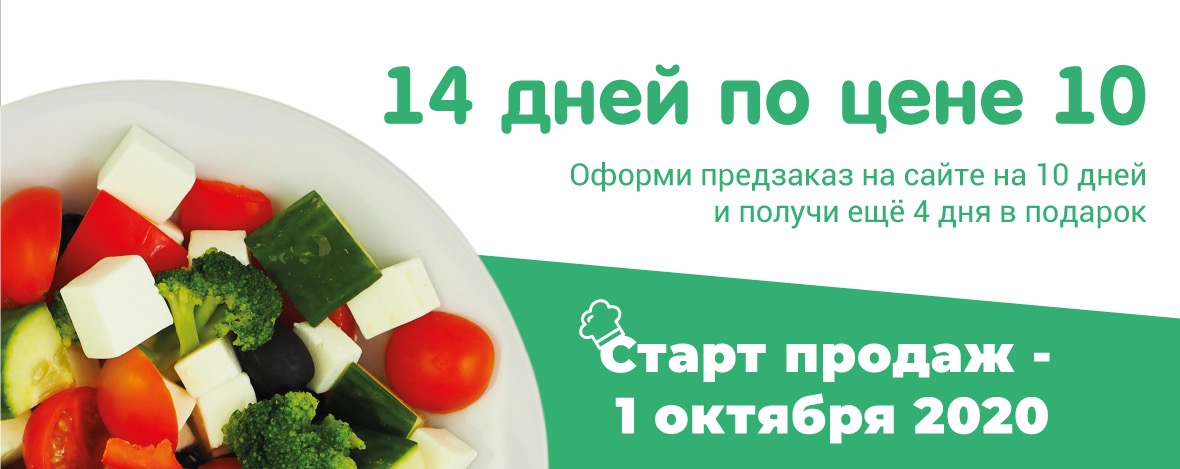
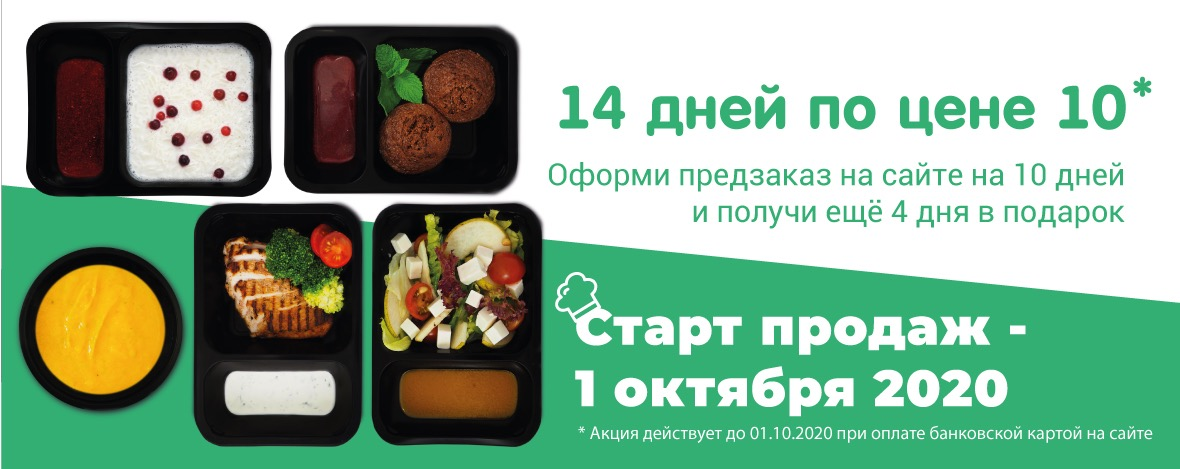
Изменения в дизайне, добавлен таймер

diff --git a/js/timer.js b/js/timer.js
@@ -1,0 +1,34 @@
+const daysEl = document.getElementById('days');
+const hoursEl = document.getElementById('hours');
+const minutesEl = document.getElementById('minutes');
+const secondsEl = document.getElementById('seconds');
+const timerEl = document.getElementById('timer');
+
+function countdown () {
+    const targetDate = new Date("01 Oct 2020");
+    const currentDate = new Date();
+    const allSeconds = Math.floor(targetDate - currentDate) / 1000;
+    const days = Math.floor(allSeconds / 3600 / 24);
+    const hours = Math.floor(allSeconds / 3600 ) % 24;
+    const minutes = Math.floor(allSeconds / 60 ) % 60;
+    const seconds = Math.floor(allSeconds) % 60;
+
+    if (allSeconds <= 0) {
+        timerEl.innerHTML="Таймер закончился!";
+        return false;
+    } 
+
+    daysEl.innerHTML = formatTime(days);
+    hoursEl.innerHTML = formatTime(hours);
+    minutesEl.innerHTML = formatTime(minutes);
+    secondsEl.innerHTML = formatTime(seconds);
+
+}
+
+function formatTime(time) {
+    return (time < 10 ? `0${time}` : time);
+}
+
+
+countdown();
+setInterval(countdown, 1000);

diff --git a/css/main.css b/css/main.css
@@ -823,12 +823,12 @@ footer {
 
 .footer-top-line .cr_cards-img {
     flex-basis: 33.33%;
-    text-align: right;
+    text-align: center;
 }
 
-.footer-top-line .cr_cards-img img {
+/* .footer-top-line .cr_cards-img img {
     max-width: 50px;
-}
+} */
 
 .footer-content__img {
     flex-basis: 20%;
@@ -906,4 +906,28 @@ footer {
 /* order */
 .result_ {
     font-size: 1.5rem;
+}
+
+/*timer*/
+.timer  {
+    list-style: none;
+    padding: 0;
+    margin: 0;
+    display: flex;
+    justify-content: center;
+    align-items: center;
+}
+
+.timer li {
+    display: flex;
+    justify-content: center;
+    align-items: center;
+    flex-direction: column;
+    padding: 1rem;
+}
+
+.big-text {
+    font-size: 4rem;
+    font-family: 'Nunito-Bold'  , sans-serif;
+    transition: linear 0.5s ease;
 }

diff --git a/css/media.css b/css/media.css
@@ -15,7 +15,7 @@
     }
     
     .main-banner {
-        min-height: 300px;
+        min-height: 200px;
     }
     /*sm header end*/
     
@@ -200,9 +200,9 @@
         margin-top: 1.8rem;
     }
     
-    .footer-top-line .cr_cards-img img {
+    /* .footer-top-line .cr_cards-img img {
         max-width: 30px;
-    }
+    } */
     /*sm footer end*/
 }
 

diff --git a/index.php b/index.php
@@ -1,6 +1,24 @@
 <?php include_once './template/header.php'; ?>
 
         <main>
+
+            <section class="banner" id="banner">
+                <div class="container bg-color-white">
+                    <div class="timer-container">
+                        <div class="timer-title text-center pt-3">
+                            <h3>До старта продаж: </h3>
+                        </div>
+                            <ul class="timer" id="timer">
+                                <li><span class="big-text" id="days">0</span><span class="small-text">дней</span></li>
+                                <li><span class="big-text" id="hours">0</span><span class="small-text">часов</span></li>
+                                <li><span class="big-text" id="minutes">0</span><span class="small-text">минут</span></li>
+                                <li><span class="big-text" id="seconds">0</span><span class="small-text">секунд</span></li>
+                            </ul>
+                    </div>
+                </div>
+            </section>
+
+
             <section class="banner" id="banner">
                 <div class="container bg-color-white">
                     <div class="banner__img d-flex align-items-center justify-content-center w-100 py-3">
@@ -11,6 +29,10 @@
                     </div>
                 </div>
             </section>
+
+            
+
+
 
             <section class="how" id="how_anchor">
                 <div class="container bg-color-white">
@@ -89,7 +111,7 @@
                         <div class="col-md-6">
                             <div class="how-descr-item">
                                 <div class="how-descr__badge"><i class="fas fa-check"></i></div>
-                                <h3>Тщательно подобранные меню</h3>
+                                <h3>Удобно использовать</h3>
                                 <span>Вы можете разогреть наши блюда в простой микроволновке
                                     буквально за несколько минут!
                                 </span>
@@ -131,7 +153,6 @@
                                             <?= $foodset['description'] ?>
                                         </div>
                                         <div class="card-link align-items-center justify-content-center d-flex w-100 p-4">
-                                            <!-- <button class="my-btn btn-green" type="button" data-sum="<?= $foodset['price'] ?>" data-order="<?= $foodset['name'] ?>" data-toggle="modal" data-target="#modal-order" disabled="disabled">заказать</button> -->
                                             <a href="/order.php?order_sum=<?= $foodset['price'] ?>&order=<?= $foodset['name'] ?>&product_code=<?= $foodset['frontpad_api_id'] ?>" style="color:#fff" class="my-btn btn-green" type="button" data-sum="<?= $foodset['price'] ?>" >заказать</a>
                                         </div>
                                     </div>
@@ -312,17 +333,23 @@
                         </div>
                         <div class="col-md-6">
                             <div class="pevsner__text">
-                                Доставка осуществляется по районам Москвы и ближайшему Подмосковью с 10:00 до 18:00 ежедневно.
+                            <p>
+                                Доставка осуществляется по районам Москвы и ближайшему Подмосковью с 8:00 до 23:00 ежедневно.
                                 Далее 10км от МКАД доставка платная.
                                 Подробности можно уточнить у менедежера.
+                            </p>
+                            <p>
+                                Для Вашего удобства оплатить заказ можно на сайте с помощью банковской карты, а 
+                                также при получении заказа наличными или банковской картой.
+                            </p>    
+                            <p>
+                                Отмена ранее заказанного рациона питания возможна не позднее 24 часов до даты доставки.            
+                            </p>
                             </div>
                         </div>
                     </div>
                 </div>
             </section>
-
-
-
 
             <section class="call" id="contacts_anchor">
                 <div class="container bg-color-white">

diff --git a/order.php b/order.php
@@ -160,12 +160,12 @@ if (isset($_GET['product_code']) && !empty($_GET['product_code'])) {
                                     Наличными при получении
                                 </label>
                             </div>
-                            <div class="form-check">
+                            <!-- <div class="form-check">
                                 <input class="form-check-input check" type="radio" name="payment_type" value="2" id="order_input_check_card" required>
                                 <label class="form-check-label" for="order_input_check_card">
                                     Оплата картой на сайте онлайн
                                 </label>
-                            </div>
+                            </div> -->
                             <div class="form-check">
                                 <input class="form-check-input check" type="radio" name="payment_type" value="3" id="order_input_check_card_2" required>
                                 <label class="form-check-label" for="order_input_check_card_2">
@@ -207,7 +207,7 @@ if (isset($_GET['product_code']) && !empty($_GET['product_code'])) {
                     data-amount-format='rubli'
                     data-client-info-selector='.order-input-name'
                     data-email-selector='.order-input-email'
-                    data-token='qmr4hi9gnv2fgold9a3bq1f7ji'
+                    data-token='pcblv1b183t2rrosou7msbs3p8'
                     data-description-selector='.form_order_order'
                     data-language='ru'
                     data-stages='1'

diff --git a/template/footer.php b/template/footer.php
@@ -7,9 +7,11 @@
                             <a href="tel:+74955858203"><span><i class="fas fa-phone"></i></span> +7 (495) 585-8203</a>
                         </div>
                         <div class="cr_cards-img">
-                            <span>Мы принимаем к оплате: </span>
-                            <img src="img/design/sections/footer/visa.png" alt="Мы принимаем Visa" class="img-fluid">
-                            <img src="img/design/sections/footer/mastercard.png" alt="Мы принимаем MasterCard" class="img-fluid">
+                            <span>Оплата банковскими картами осуществляется через АО «АЛЬФА-БАНК».К оплате принимаются карты VISA, MasterCard, МИР.</span>
+                            <!-- <img src="img/design/sections/footer/visa.png" alt="Мы принимаем Visa" class="img-fluid">
+                            <img src="img/design/sections/footer/mastercard.png" alt="Мы принимаем MasterCard" class="img-fluid"> -->
+                            <img src="./img/design/sections/footer/bank-logos.jpg" alt="Мы принимаем" class="img-fluid">
+
                         </div>
                     </div>
                 </div>
@@ -103,5 +105,6 @@
         <!--Custom JS for additional-->
         <script src="/js/custom.js"></script>
         <script src="/js/menu.js"></script>
+        <script src="/js/timer.js"></script>
     </body>
 </html>

diff --git a/template/header.php b/template/header.php
@@ -127,13 +127,14 @@ $orderUrl = $orderUrl[0];
                 </nav>
             </div>
             <div class="row">
-                <div class="main-banner d-flex w-100 text-color-white align-items-center justify-content-center flex-column">
-                    <img src="/img/design/header/logo-pic-white.png" alt="logo-pic" class="main-banner__logo img-fluid">
+                <!-- <div class="main-banner d-flex w-100 text-color-white align-items-center justify-content-center flex-column">
+                     <img src="/img/design/header/logo-pic-white.png" alt="logo-pic" class="main-banner__logo img-fluid">
                     <div class="main-banner__text">
-                        <!--<h1>Доставка готового питания по диетическим столам Певзнера</h1>-->
-                        <h1>Мы скоро откроемся ! </h1>
-                    </div>
-                </div>
+                        <<h1>Доставка готового питания по диетическим столам Певзнера</h1>
+                        <h1>Мы скоро откроемся ! </h1> 
+                    </div> 
+                </div>  -->
+                <img src="./img/design/header/banner.jpg" alt="banner" class="img-fluid">
             </div>
         </div>
     </header>

diff --git a/test/alfatest_.php b/test/alfatest_.php
@@ -22,7 +22,7 @@
     data-version='1.0'
     data-amount-format='rubli'
     data-client-info-selector='.clientInfo'
-    data-token='qmr4hi9gnv2fgold9a3bq1f7ji'
+    data-token='pcblv1b183t2rrosou7msbs3p8'
     data-description='Самый вкусный торт'
     data-language='en'
     data-stages='1'
